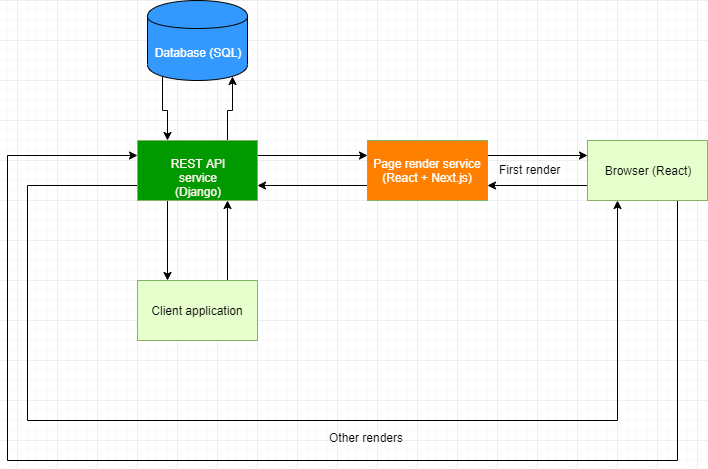
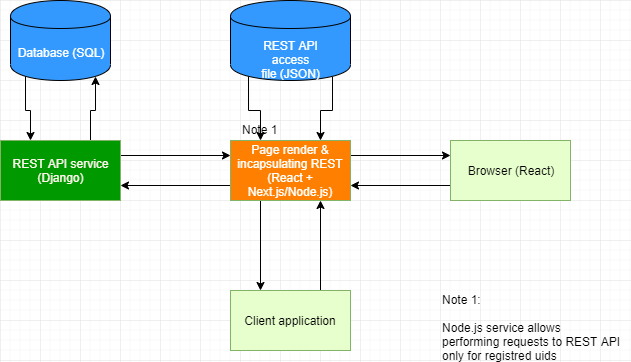
Change info

diff --git a/README.md b/README.md
@@ -20,7 +20,7 @@
 
 ## Сервисы
 
-Имиджборда состоит как минимум из 2-х сервисов: сервис для рендера React-страничек (Next.js) и REST API сервис (Django). Должна быть возможность использовать REST API напрямую (например, мобильным приложением);
+Имиджборда состоит как минимум из 2-х сервисов: сервис для рендера React-страничек и инкапсуляции доступа к REST API (Next.js/Node.js) и REST API сервис (Django). Доступ напрямую к REST API имеет только данный Node.js сервис, остальные приложения - через него с помощью UID токенов;
 
 <img src="./Services-diagram.png"/>
 
